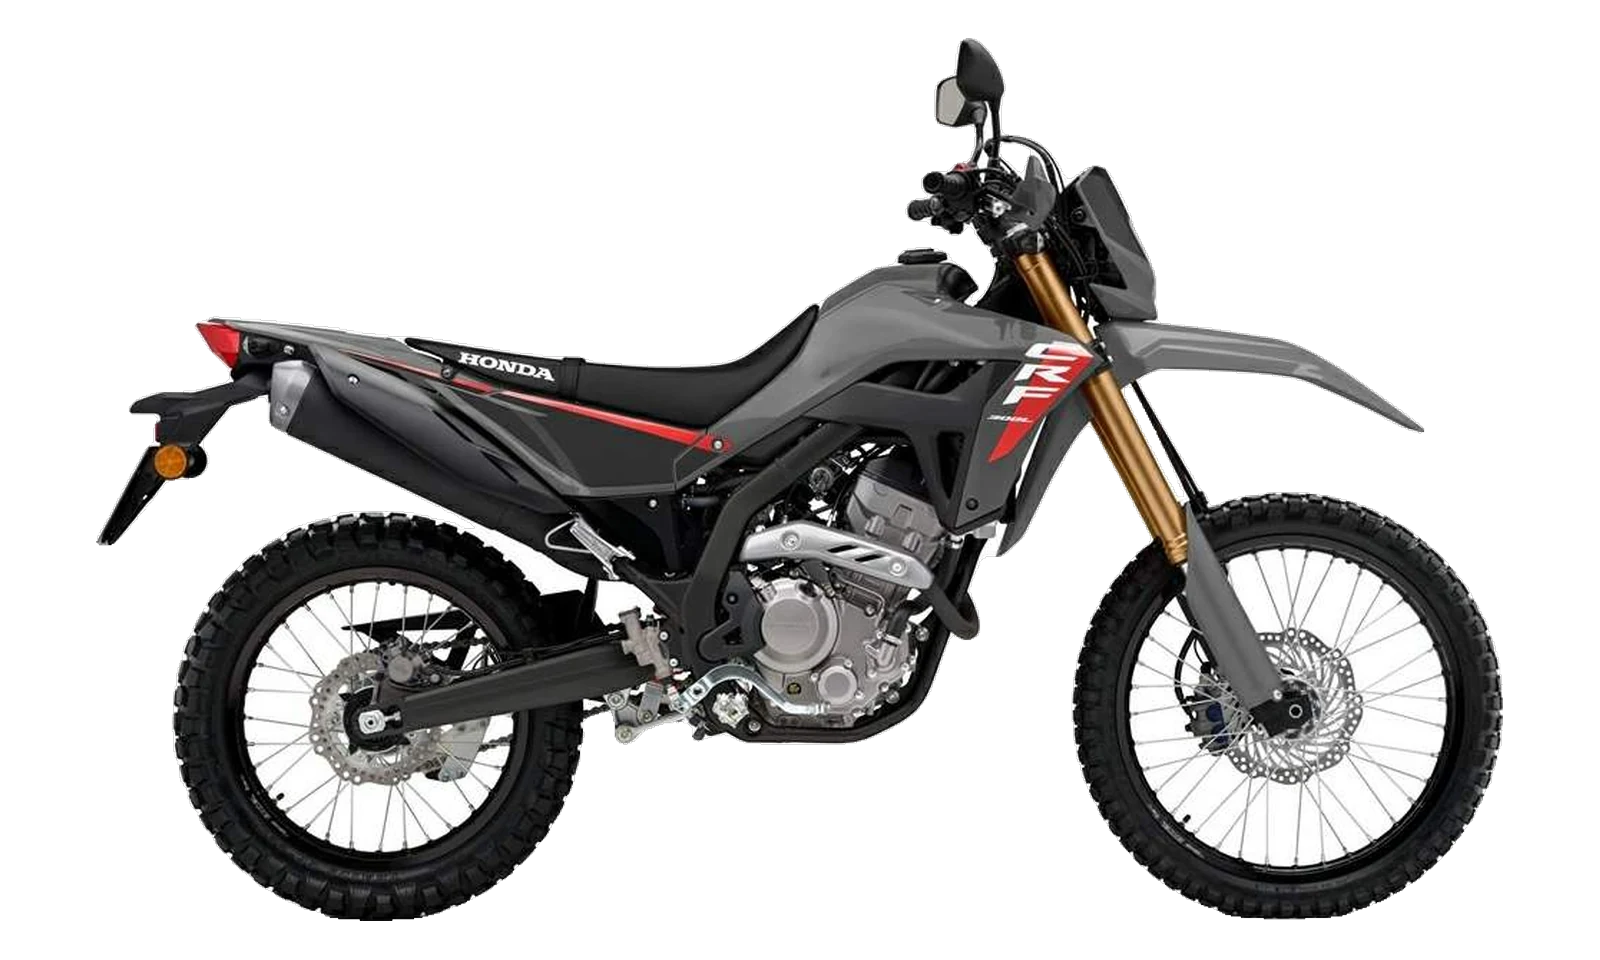
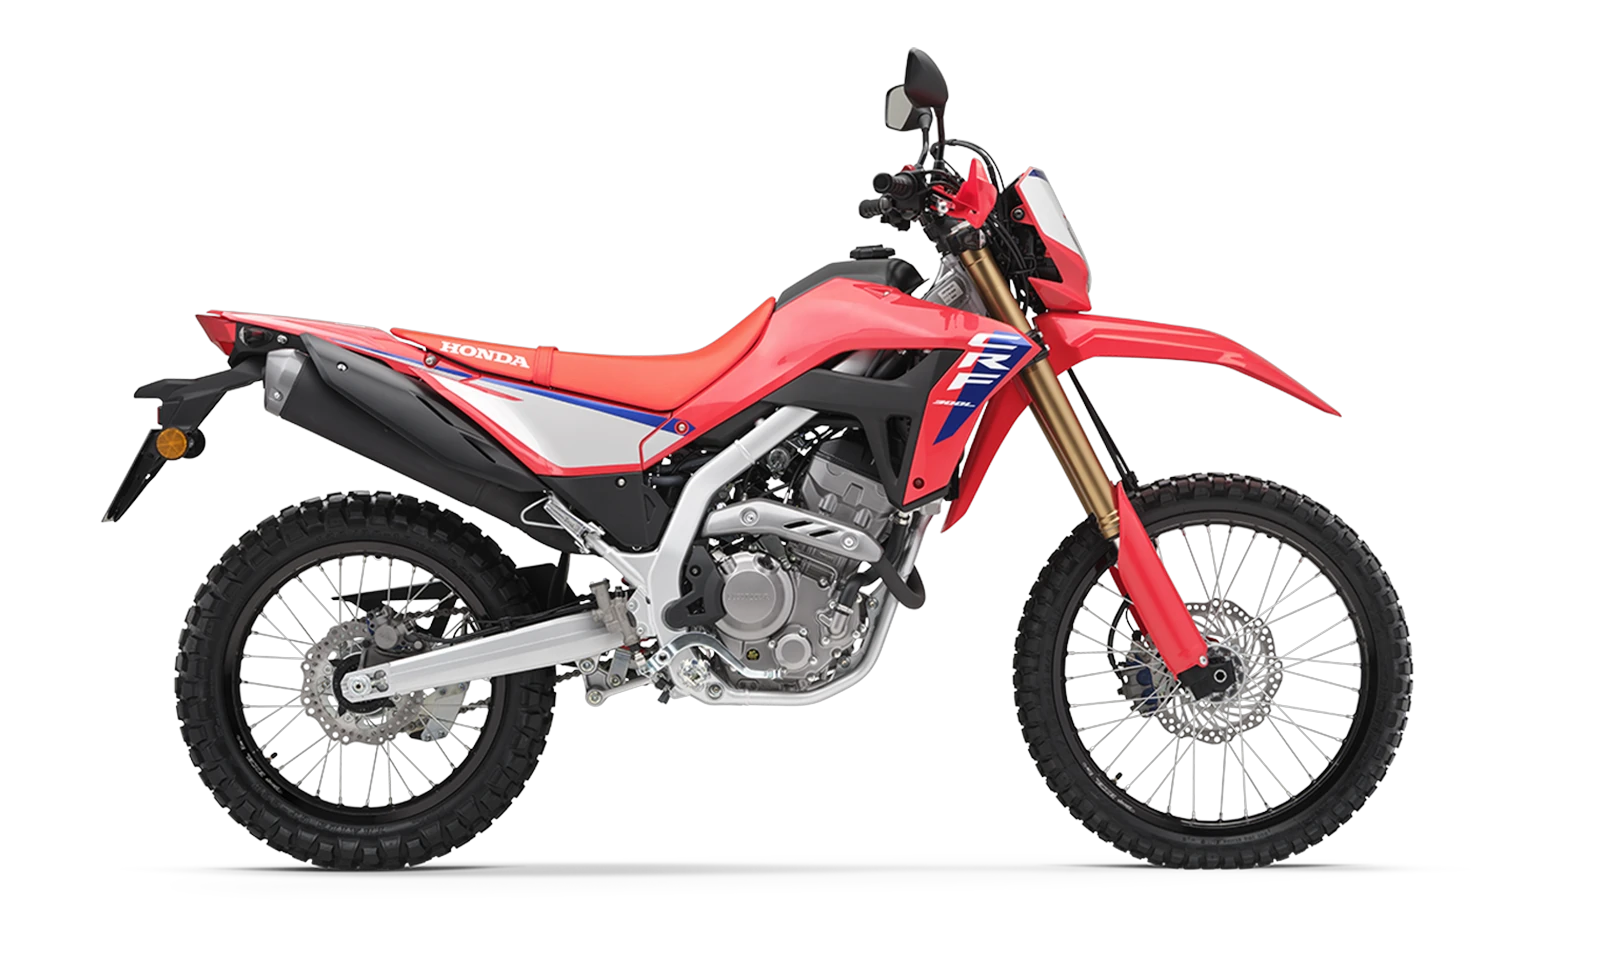
fix: update pics

diff --git a/src/data/photos.ts b/src/data/photos.ts
@@ -58,12 +58,16 @@ export const photos: Record<string, PhotoSet> = {
   "honda-crf300l": {
     views: [{ side: "right", src: "/bikes/honda-crf300l/right.webp" }],
     credit: "Honda",
-    source: "https://www.motorcyclespecs.co.za/model/Honda/honda-crf300l-2025.html",
+    source:
+      "https://www.honda.co.uk/content/dam/central/motorcycles/colour-picker/adventure/crf300l/crf300l_2025/r-292r_extreme_red/25YM_CRF300L_EXTREME-RED_R-292R_RHS.png",
   },
   "yamaha-wr125r": {
-    views: [{ side: "right", src: "/bikes/yamaha-wr125r/right.webp" }],
+    views: [
+      { side: "right", src: "/bikes/yamaha-wr125r/right.webp" },
+      { side: "left", src: "/bikes/yamaha-wr125r/left.webp" },
+    ],
     credit: "Yamaha Motor",
-    source: "https://www.motorcyclespecs.co.za/model/yamaha/Yamaha-wr-125r-2026.htm",
+    source: "https://www.yamaha-motor.eu/gb/en/motorcycles/adventure/pdp/wr125r/",
   },
   "honda-crf450l": {
     views: [
@@ -71,7 +75,9 @@ export const photos: Record<string, PhotoSet> = {
       { side: "right", src: "/bikes/honda-crf450l/right.webp" },
     ],
     credit: "Honda",
-    source: "https://www.motorcyclespecs.co.za/model/Honda/honda_crf450L_20.html",
+    // right view is Honda's own studio asset; the left is the older press shot
+    source:
+      "https://www.honda.co.uk/content/dam/central/motorcycles/colour-picker/off-road/crf450l/crf450l_2019_nv/ered/crf450l_2019_nv_ered.png",
   },
   "ducati-desmo450-eds": {
     views: [

diff --git a/src/data/bikes.ts b/src/data/bikes.ts
@@ -41,10 +41,9 @@ export type Bike = {
    */
   driveSide?: "left" | "right" | "none";
   /**
-   * Which side the silencer sits on. Right on almost everything, but the LC4
-   * 690/701 and the HP2 route it down the left, alongside the drive, so the
-   * right-hand view of those shows no exhaust at all. "none" where it is not
-   * one-sided.
+   * Which side the silencer sits on. Right on most of these, but the LC4
+   * 690/701, the HP2 and the WR125R route it down the left, so the right-hand
+   * view of those shows no exhaust at all. "none" where it is not one-sided.
    */
   exhaustSide?: "left" | "right" | "none";
   /** Brand colour, contrast-checked against the graphite ground. */
@@ -145,6 +144,7 @@ export const bikes: Bike[] = [
       serviceMi: 3500,
     },
     condition: "new",
+    exhaustSide: "left",
     ink: "#4E8CFF",
     inkAlt: "#FF4D5E",
     note: "A1 licence fodder and priced to match. Learner-legal, which is the whole reason it sits on a list of much bigger bikes.",
